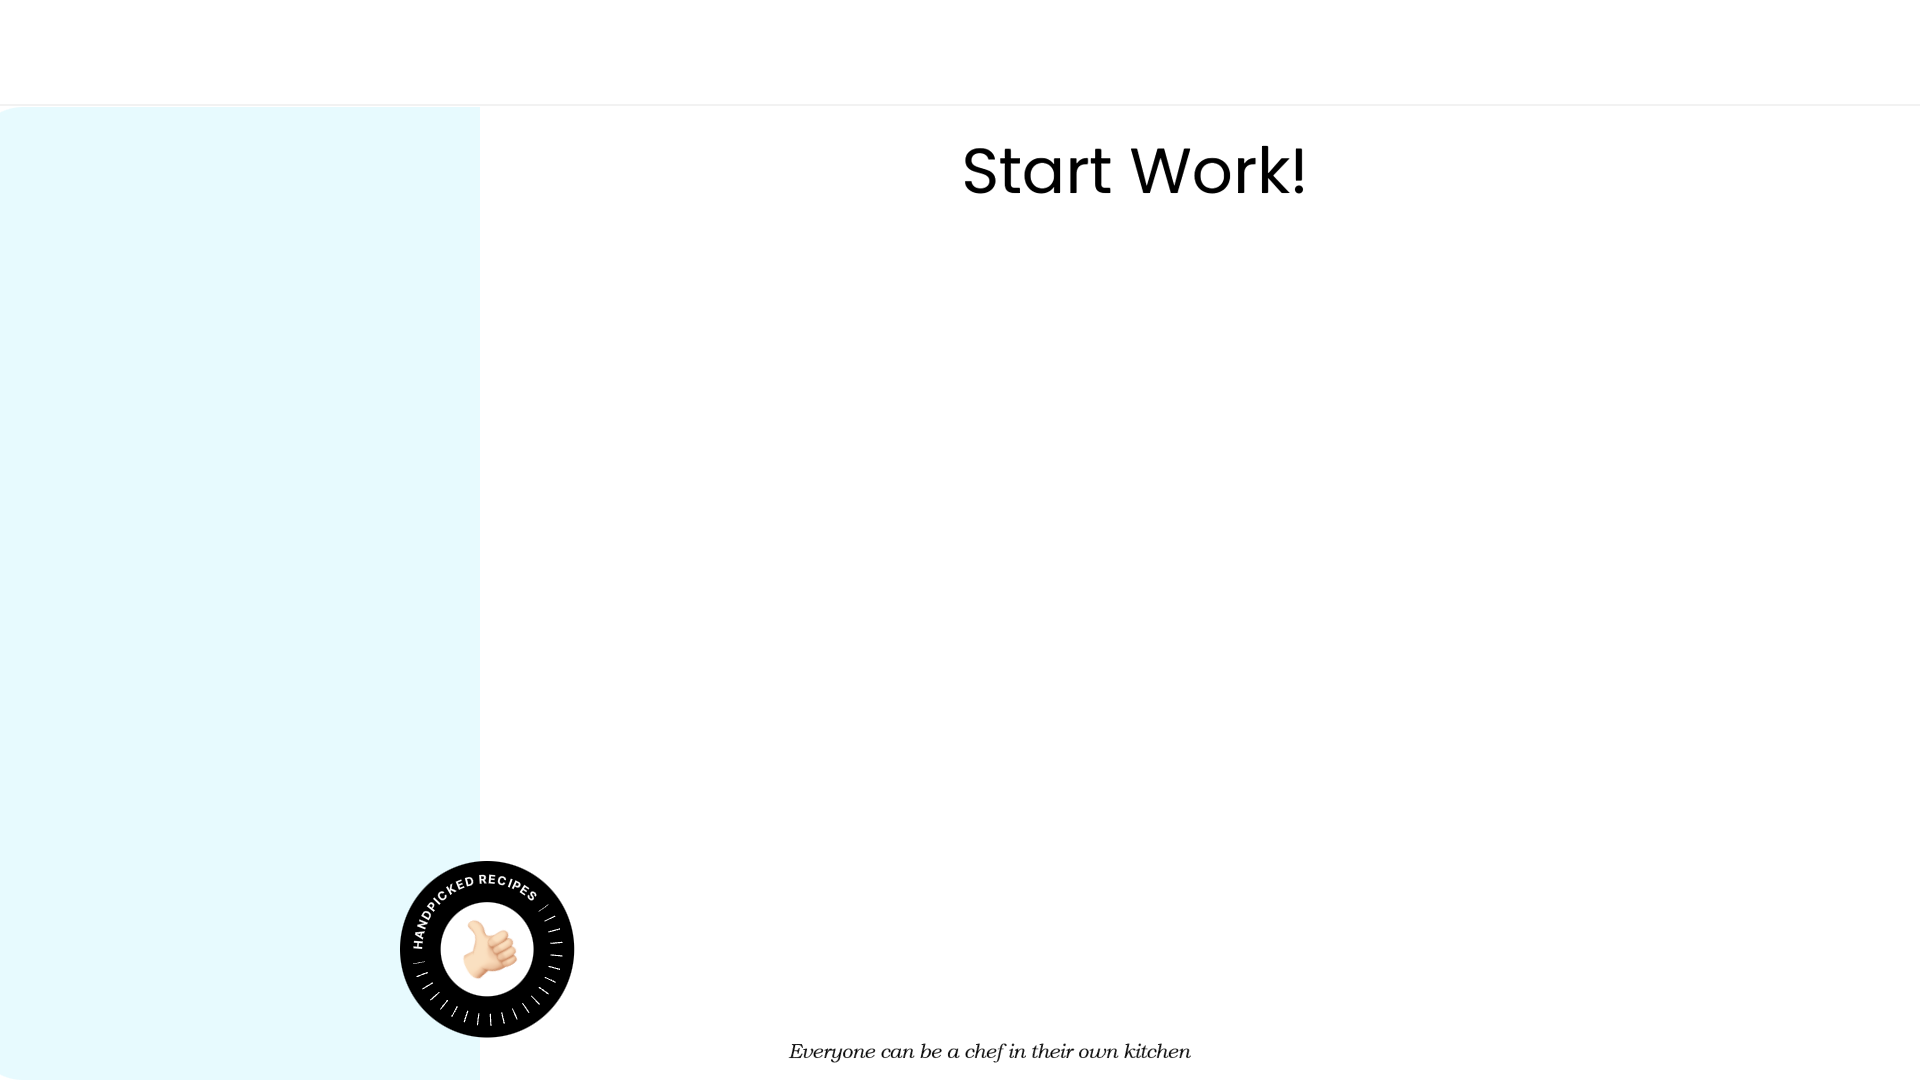
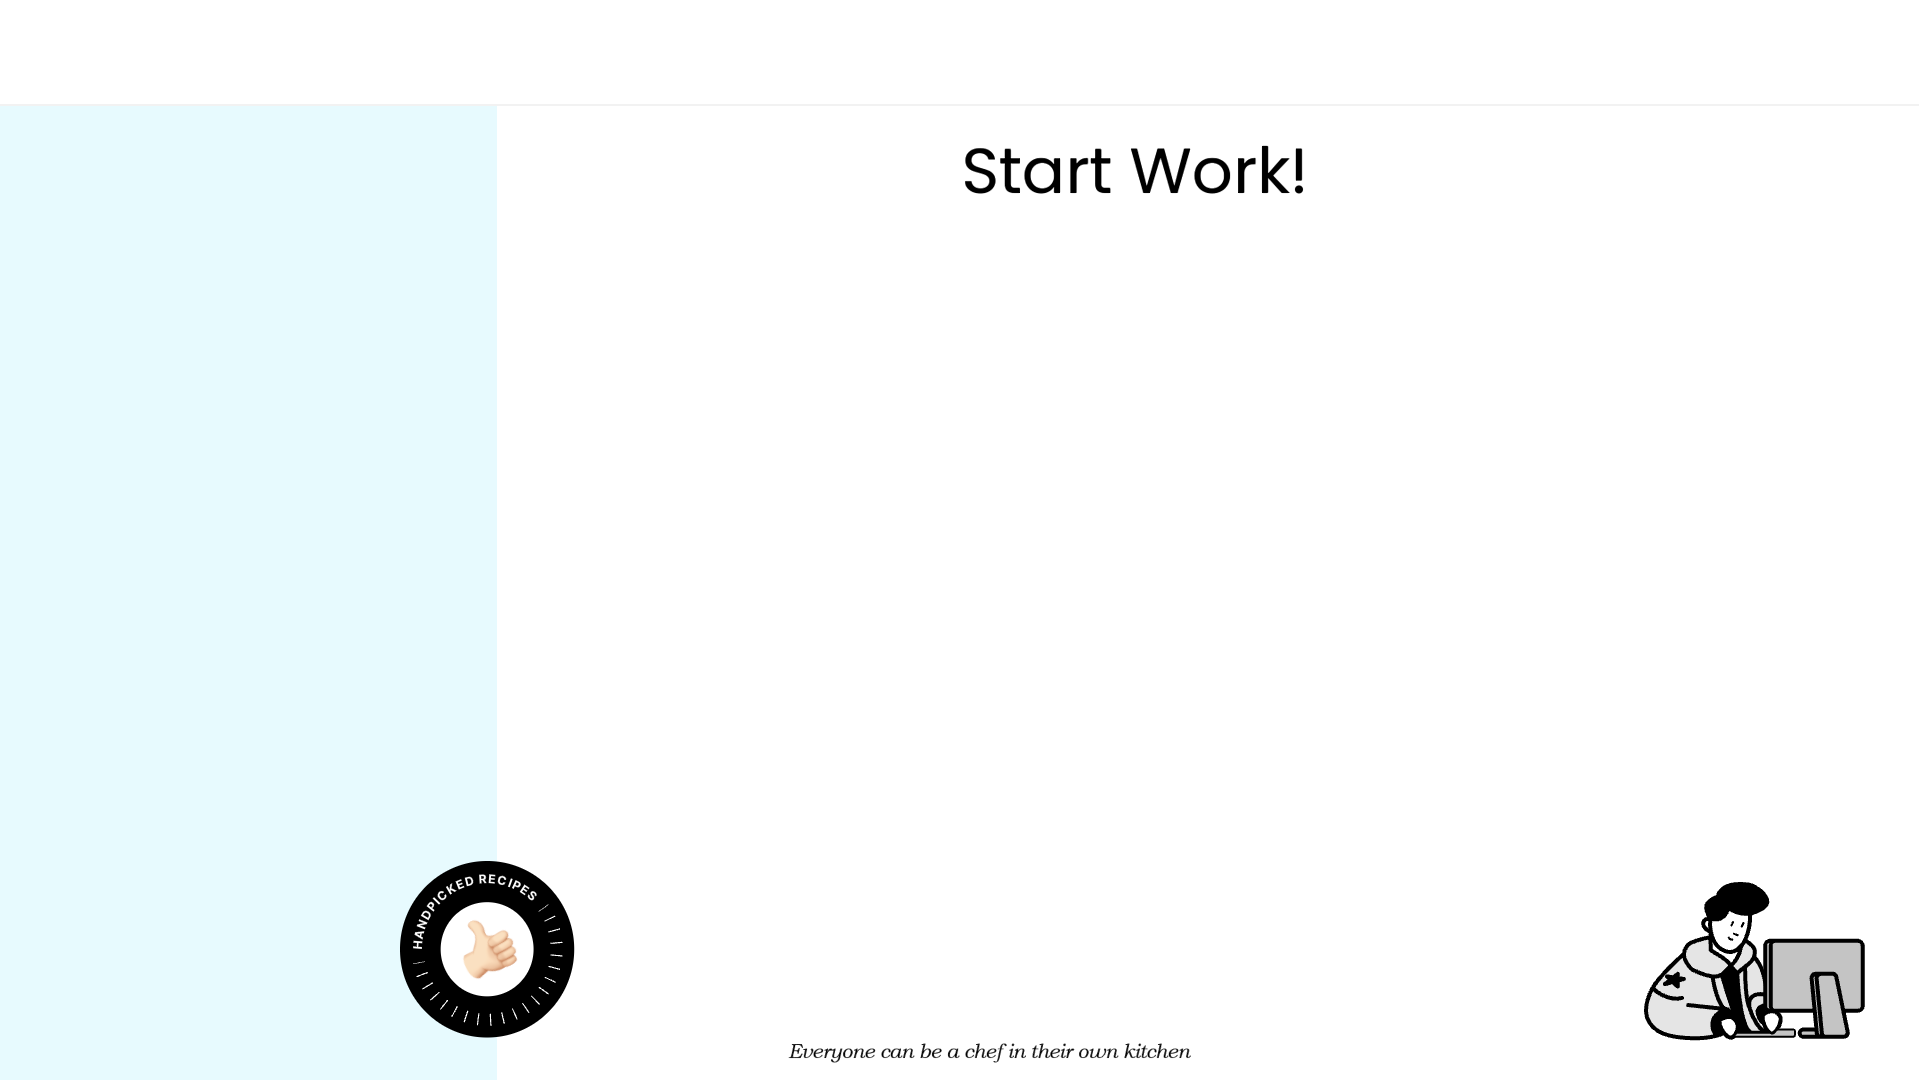
微调管理员主页 的UI

Changed region(s): [[0.8438, 0.825, 0.9688, 0.9778]]

diff --git a/database-front-web/src/views/homeAdmin/index.vue b/database-front-web/src/views/homeAdmin/index.vue
@@ -4,7 +4,7 @@
             <div class="header">
                 <navTopAdmin></navTopAdmin>
             </div>
-            <el-card class="homeAdmin-card">
+            <div class="homeAdmin-card">
                 <!-- 管理员信息卡片 -->
                 <el-form :inline=true class="homeAdmin-avatar-ID">
                     <el-form-item>
@@ -15,16 +15,40 @@
                         <el-form>
                             <!-- 用户名与ID -->
                             <h2>{{ store.state.Info.name }}</h2>
-                            <div style="color:grey">ID:{{ store.state.Info.id }}</div>
                         </el-form>
                     </el-form-item>
-                    <div class="line"></div><!-- 这是一条分割线 -->
+                    <div class="line"></div>
+                    <!-- 这是一条分割线 -->
+                </el-form>
+                <el-form :inline=true style="position:absolute;top:25%;left:20%;">
+                    <el-form-item style="width:50px;">
+                        <b style="color:black;">ID</b>
+                    </el-form-item>
+                    <el-form-item>  
+                        <b style="position:absolute;left:80%;color:black;">{{ store.state.Info.id }}</b>
+                    </el-form-item>
+                </el-form>
+                <el-form :inline=true style="position:absolute;top:35%;left:20%;">
+                    <el-form-item style="width:50px;">
+                        <b style="color:black;">Email</b>
+                    </el-form-item>
+                    <el-form-item>  
+                        <b style="position:absolute;left:80%;color:black;">{{ store.state.Info.email }}</b>
+                    </el-form-item>
+                </el-form>
+                <el-form :inline=true style="position:absolute;top:45%;left:20%;">
+                    <el-form-item style="width:50px;">
+                        <b style="color:black;">Tel</b>
+                    </el-form-item>
+                    <el-form-item>  
+                        <b style="position:absolute;left:80%;color:black;">{{ store.state.Info.tel }}</b>
+                    </el-form-item>
                 </el-form>
                 <!-- 退出登录的按钮 -->
                 <el-button class="homeAdmin-logout-btn" style="position:absolute;bottom:5%;left:40%" @click="logout">
                     <span>退出登录</span>
                 </el-button>
-            </el-card>
+            </div>
             <el-form style="position: absolute" class="classify-position" :inline=true>
                 <!-- 功能选择分区 -->
                 <el-form-item>
@@ -121,9 +145,8 @@ console.log(store.state);
     position: absolute;
     top: 11%;
     left: 0.6%;
-    background-color: #E7FAFE;
     width: 342px;
-    height: 500px;
+    height: 700px;
 }
 
 .homeAdmin-avatar-ID {
